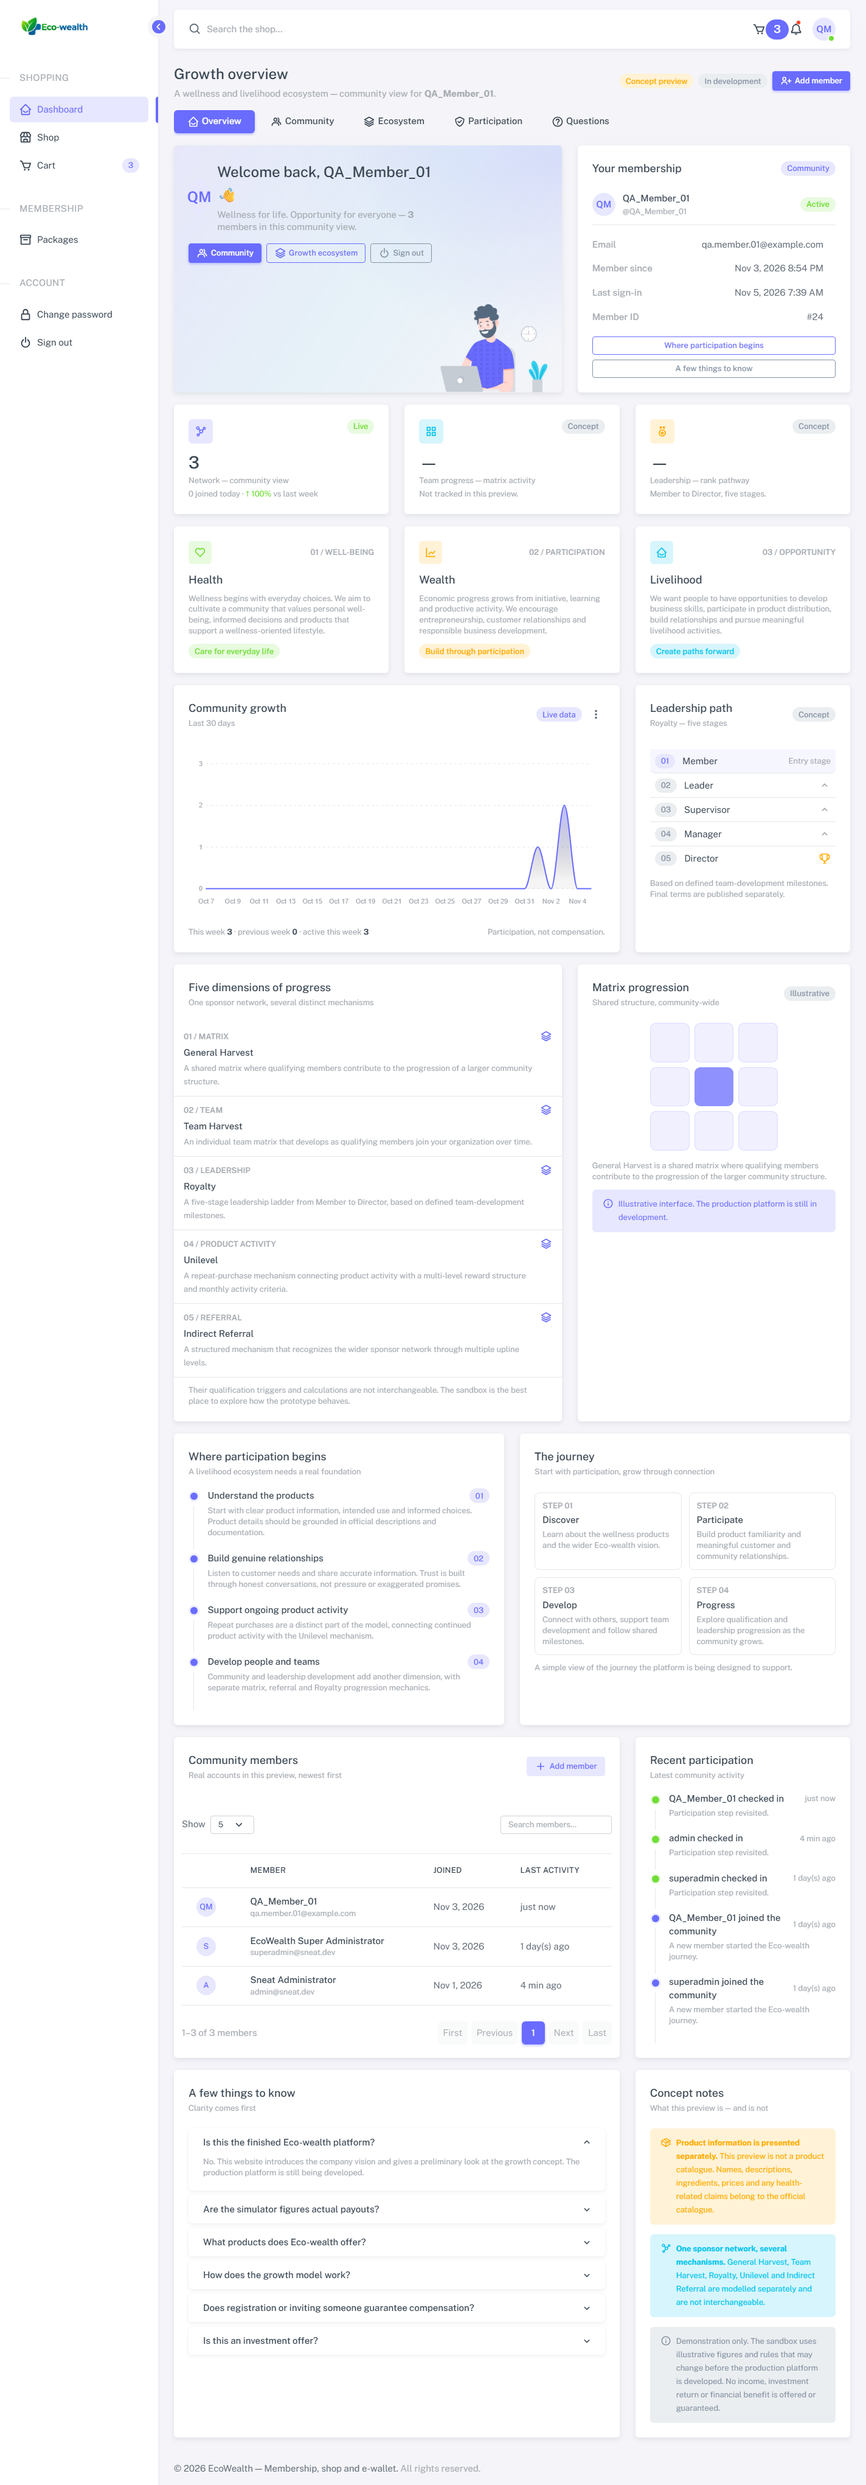
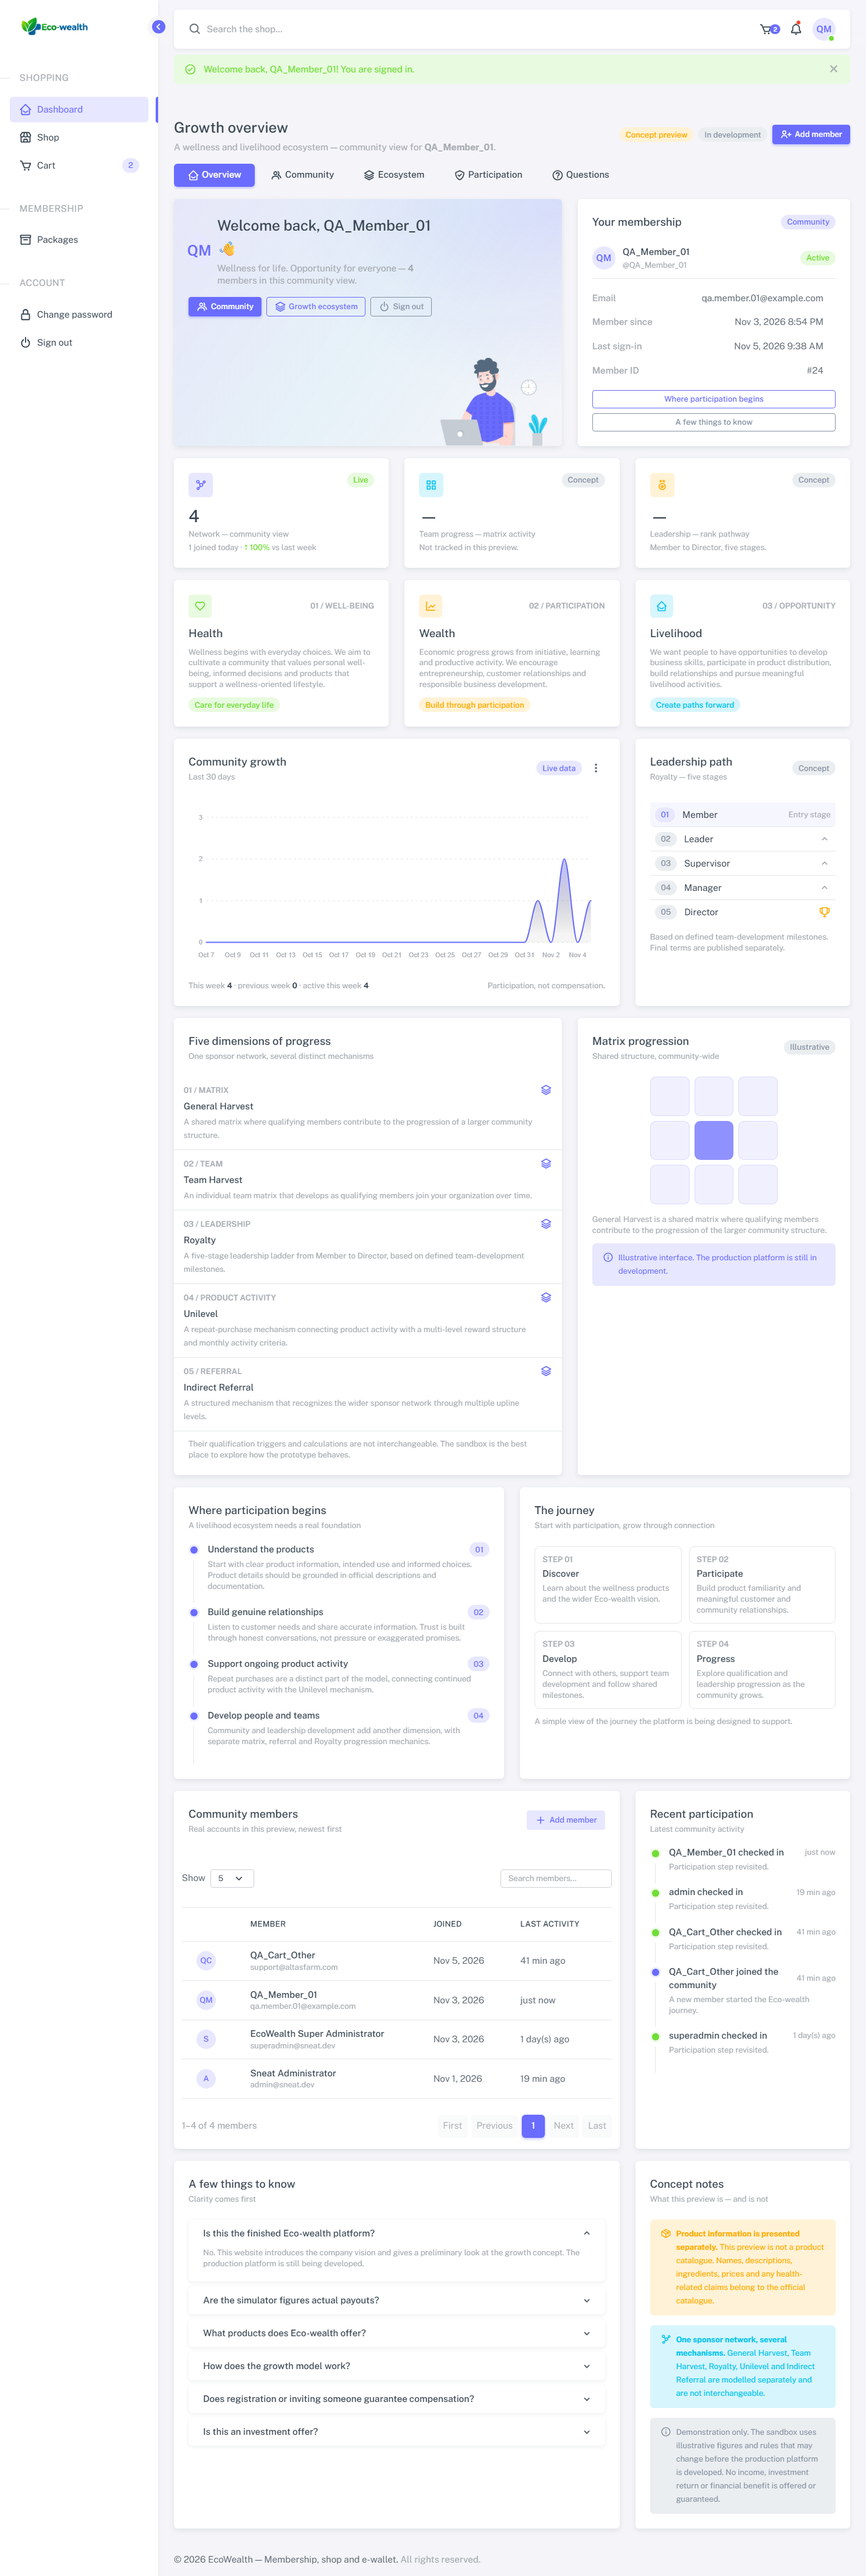
shell: size the navbar cart badge from the global stylesheet

diff --git a/system/public/assets/css/shop.css b/system/public/assets/css/shop.css
@@ -317,9 +317,8 @@
 }
 
 /* The native number spinner fights the three-piece stepper: hide it and give
- * the value enough room to stay readable in the narrow drawer group. */
-.product-qty-group input[type='number'],
-.cart-qty-group input[type='number'] {
+ * the value enough room to stay readable in the narrow group. */
+.product-qty-group input[type='number'] {
   flex: 1 1 auto;
   min-width: 2.4rem;
   padding-right: 0.25rem;
@@ -329,9 +328,7 @@
 }
 
 .product-qty-group input[type='number']::-webkit-outer-spin-button,
-.product-qty-group input[type='number']::-webkit-inner-spin-button,
-.cart-qty-group input[type='number']::-webkit-outer-spin-button,
-.cart-qty-group input[type='number']::-webkit-inner-spin-button {
+.product-qty-group input[type='number']::-webkit-inner-spin-button {
   margin: 0;
   -webkit-appearance: none;
 }
@@ -381,8 +378,9 @@
   object-fit: contain;
 }
 
-.cart-row-name,
-.cart-drawer-name {
+/* The drawer's line link is styled from app.css: the drawer exists on every
+ * signed-in page, while this stylesheet only loads on catalogue/cart pages. */
+.cart-row-name {
   display: block;
   overflow: hidden;
   max-width: 22rem;
@@ -393,14 +391,8 @@
   white-space: nowrap;
 }
 
-.cart-row-name:hover,
-.cart-drawer-name:hover {
+.cart-row-name:hover {
   color: var(--bs-primary);
-}
-
-.cart-qty-group {
-  width: 7.25rem;
-  flex-wrap: nowrap;
 }
 
 .cart-col-qty {
@@ -421,66 +413,8 @@
   top: 6rem;
 }
 
-/* ---------- Cart drawer (Phase 4) ---------- */
-.cart-drawer {
-  width: min(23rem, 100vw);
-}
-
-.cart-drawer-media {
-  display: grid;
-  place-items: center;
-  overflow: hidden;
-  width: 64px;
-  height: 64px;
-  border: 1px solid var(--bs-border-color);
-  border-radius: 0.6rem;
-  background: var(--bs-gray-100, #f4f6fb);
-}
-
-.cart-drawer-media img {
-  width: 100%;
-  height: 100%;
-  padding: 0.2rem;
-  object-fit: contain;
-}
-
-.cart-drawer-media-empty {
-  display: grid;
-  place-items: center;
-  width: 100%;
-  height: 100%;
-  color: var(--bs-secondary-color);
-}
-
-.cart-drawer-name {
-  max-width: 12rem;
-  font-size: 0.925rem;
-}
-
-.cart-drawer-line {
-  color: var(--bs-heading-color);
-  font-size: 0.85rem;
-  font-weight: 600;
-  white-space: nowrap;
-}
-
-.cart-drawer-empty {
-  min-height: 60vh;
-}
-
-.cart-drawer .cart-qty-group {
-  width: 6.75rem;
-}
-
-.cart-navbar-badge {
-  position: absolute;
-  top: 0.35rem;
-  right: 0.25rem;
-  min-width: 1.1rem;
-  padding: 0.15rem 0.3rem;
-  font-size: 0.65rem;
-  line-height: 1;
-}
+/* The drawer and the navbar badge are global shell elements; their styles
+ * live in app.css so they also apply on pages that do not load this file. */
 
 /* Phone: two compact cards per row; quick view gives its slot to Add. */
 @media (max-width: 575.98px) {

diff --git a/system/public/assets/css/app.css b/system/public/assets/css/app.css
@@ -266,3 +266,108 @@
 #toastContainer .toast {
   pointer-events: auto;
 }
+
+/* ---------- Cart drawer + navbar badge (Phase 4) ----------
+ * Both are shell elements: app_header renders the badge and app_footer the
+ * drawer on EVERY signed-in page. Their styles therefore live here, not in
+ * shop.css (which only loads on the catalogue and cart pages) — on other
+ * pages the badge used to fall back to the theme's oversized default pill. */
+/* The theme's `.btn .badge` rule (the trigger is a btn-icon link) forces the
+ * badge back into the flow, so target it with enough specificity to sit on the
+ * icon's corner as a compact counter. */
+#layout-navbar .cart-navbar-badge {
+  position: absolute;
+  top: 0.2rem;
+  right: 0.2rem;
+  display: inline-flex;
+  align-items: center;
+  justify-content: center;
+  min-width: 1.05rem;
+  block-size: 1.05rem;
+  padding: 0 0.3rem;
+  font-size: 0.625rem;
+  font-weight: 600;
+  line-height: 1;
+  border-radius: 999px;
+}
+
+.cart-qty-group {
+  width: 7.25rem;
+  flex-wrap: nowrap;
+}
+
+.cart-qty-group input[type='number'] {
+  flex: 1 1 auto;
+  min-width: 2.4rem;
+  padding-right: 0.25rem;
+  padding-left: 0.25rem;
+  appearance: textfield;
+  -moz-appearance: textfield;
+}
+
+.cart-qty-group input[type='number']::-webkit-outer-spin-button,
+.cart-qty-group input[type='number']::-webkit-inner-spin-button {
+  margin: 0;
+  -webkit-appearance: none;
+}
+
+.cart-drawer {
+  width: min(23rem, 100vw);
+}
+
+.cart-drawer-media {
+  display: grid;
+  place-items: center;
+  overflow: hidden;
+  width: 64px;
+  height: 64px;
+  border: 1px solid var(--bs-border-color);
+  border-radius: 0.6rem;
+  background: var(--bs-gray-100, #f4f6fb);
+}
+
+.cart-drawer-media img {
+  width: 100%;
+  height: 100%;
+  padding: 0.2rem;
+  object-fit: contain;
+}
+
+.cart-drawer-media-empty {
+  display: grid;
+  place-items: center;
+  width: 100%;
+  height: 100%;
+  color: var(--bs-secondary-color);
+}
+
+.cart-drawer-name {
+  display: block;
+  overflow: hidden;
+  max-width: 12rem;
+  color: var(--bs-heading-color);
+  font-size: 0.925rem;
+  font-weight: 600;
+  text-decoration: none;
+  text-overflow: ellipsis;
+  white-space: nowrap;
+}
+
+.cart-drawer-name:hover {
+  color: var(--bs-primary);
+}
+
+.cart-drawer-line {
+  color: var(--bs-heading-color);
+  font-size: 0.85rem;
+  font-weight: 600;
+  white-space: nowrap;
+}
+
+.cart-drawer-empty {
+  min-height: 60vh;
+}
+
+.cart-drawer .cart-qty-group {
+  width: 6.75rem;
+}

diff --git a/system/tests/Cases/CartViewTest.php b/system/tests/Cases/CartViewTest.php
@@ -353,6 +353,22 @@ return [
         );
     },
 
+    'P4-T13 the cart drawer and navbar badge are styled by the global shell sheet' => function (): void {
+        $public = dirname(__DIR__, 2) . '/public/assets/css/';
+        $app    = (string) file_get_contents($public . 'app.css');
+        $shop   = (string) file_get_contents($public . 'shop.css');
+
+        /* Both elements render on every signed-in page, so their rules must be
+         * in app.css; shop.css only loads on the catalogue and cart pages. */
+        foreach (['.cart-navbar-badge', '.cart-drawer', '.cart-drawer-media', '.cart-qty-group'] as $selector) {
+            assert_contains($selector, $app, $selector . ' belongs in app.css');
+        }
+
+        assert_contains('#layout-navbar .cart-navbar-badge', $app, 'the theme .btn .badge rule must be outranked');
+        assert_not_contains('cart-navbar-badge', $shop, 'the navbar badge must not depend on shop.css');
+        assert_not_contains('.cart-drawer {', $shop, 'the drawer must not depend on shop.css');
+    },
+
     'P4-T5 the cart page never leaks another member’s line' => function () use ($render, $makeProduct, $stateFor): void {
         $owner = test_user('cart_view_owner');
         $other = test_user('cart_view_other');

diff --git a/docs/phase-log.md b/docs/phase-log.md
@@ -732,3 +732,39 @@ number and pressing **Update** (or the trash icon) worked, which made the steppe
 - `powershell -NoProfile -File tests\smoke.ps1` — **56 / 56**.
 - Headless Chrome with **JavaScript disabled**: 4/4 (submit button semantics, reload, persisted
   quantity, flash), and the JavaScript interaction harness still **18 / 18** with 0 exceptions.
+
+---
+
+## Post-Phase 4 — Navbar cart badge sizing (global shell CSS)
+
+**Date:** 2026-11-05 · **Status:** complete · **Tests:** 178 PHP cases, 56 smoke checks
+
+### Problem
+
+On `/dashboard` the navbar cart badge rendered as a large, in-flow pill beside the cart icon instead of a
+compact counter on its corner. Two causes:
+
+1. `.cart-navbar-badge` — and the whole off-canvas drawer styling — lived in `shop.css`, which is only
+   enqueued on the catalogue and cart pages. On the dashboard there was no rule at all, so the theme’s
+   default `.badge` (large pill, in the button flow) won.
+2. Even where `shop.css` loaded, the theme’s `.btn .badge { position: relative; top: -1px }` rule
+   outranked the single-class badge rule, keeping it in the flow.
+
+### Changes
+
+- **Moved the shell-level cart styles** (drawer, drawer media/name, cart quantity group, navbar badge)
+  from `shop.css` to `app.css`, which every signed-in page loads. `shop.css` keeps the catalogue and
+  cart-page-only rules (product cards, cart table, summary).
+- **Re-scoped the badge** to `#layout-navbar .cart-navbar-badge` so it outranks `.btn .badge`; it is now a
+  compact 1.05rem circle (0.625rem type) absolutely positioned on the icon’s top-right corner.
+- **Regression test** — `CartViewTest` asserts the drawer/badge selectors live in `app.css` and that
+  `shop.css` no longer owns them, so the page-specific-sheet mistake cannot return.
+- **Evidence** — `docs/qa/evidence/shell/final-navbar-badge.png` (dashboard: `shop.css` not loaded,
+  badge computed 16.8 × 16.8px, `position: absolute`).
+
+### Verification
+
+- `php tests\run.php` — **178 / 178**.
+- `powershell -NoProfile -File tests\smoke.ps1` — **56 / 56**.
+- Headless Chrome: dashboard badge measured 16.8 × 16.8px at `position: absolute`; the cart JavaScript
+  harness still **18 / 18** and the no-JS stepper check **4 / 4**.

diff --git a/docs/qa/sign-off-sheet.md b/docs/qa/sign-off-sheet.md
@@ -36,7 +36,7 @@ still open in each phase of `docs/phase-log.md`.
 
 | Command | Expected | Actual | Result |
 |---|---|---|---|
-| `php tests\run.php` | `Cases: 177  Passed: 177  Failed: 0` / `All good.` | | ☐ Pass ☐ Fail |
+| `php tests\run.php` | `Cases: 178  Passed: 178  Failed: 0` / `All good.` | | ☐ Pass ☐ Fail |
 | `powershell -NoProfile -File tests\smoke.ps1` | `Passed: 56  Failed: 0` | | ☐ Pass ☐ Fail |
 
 Paste the final lines of each command here:

diff --git a/docs/qa/README.md b/docs/qa/README.md
@@ -41,7 +41,7 @@ php tests\run.php
 Expected last lines:
 
 ```
-Cases: 177   Passed: 177   Failed: 0
+Cases: 178   Passed: 178   Failed: 0
 All good.
 ```
 
